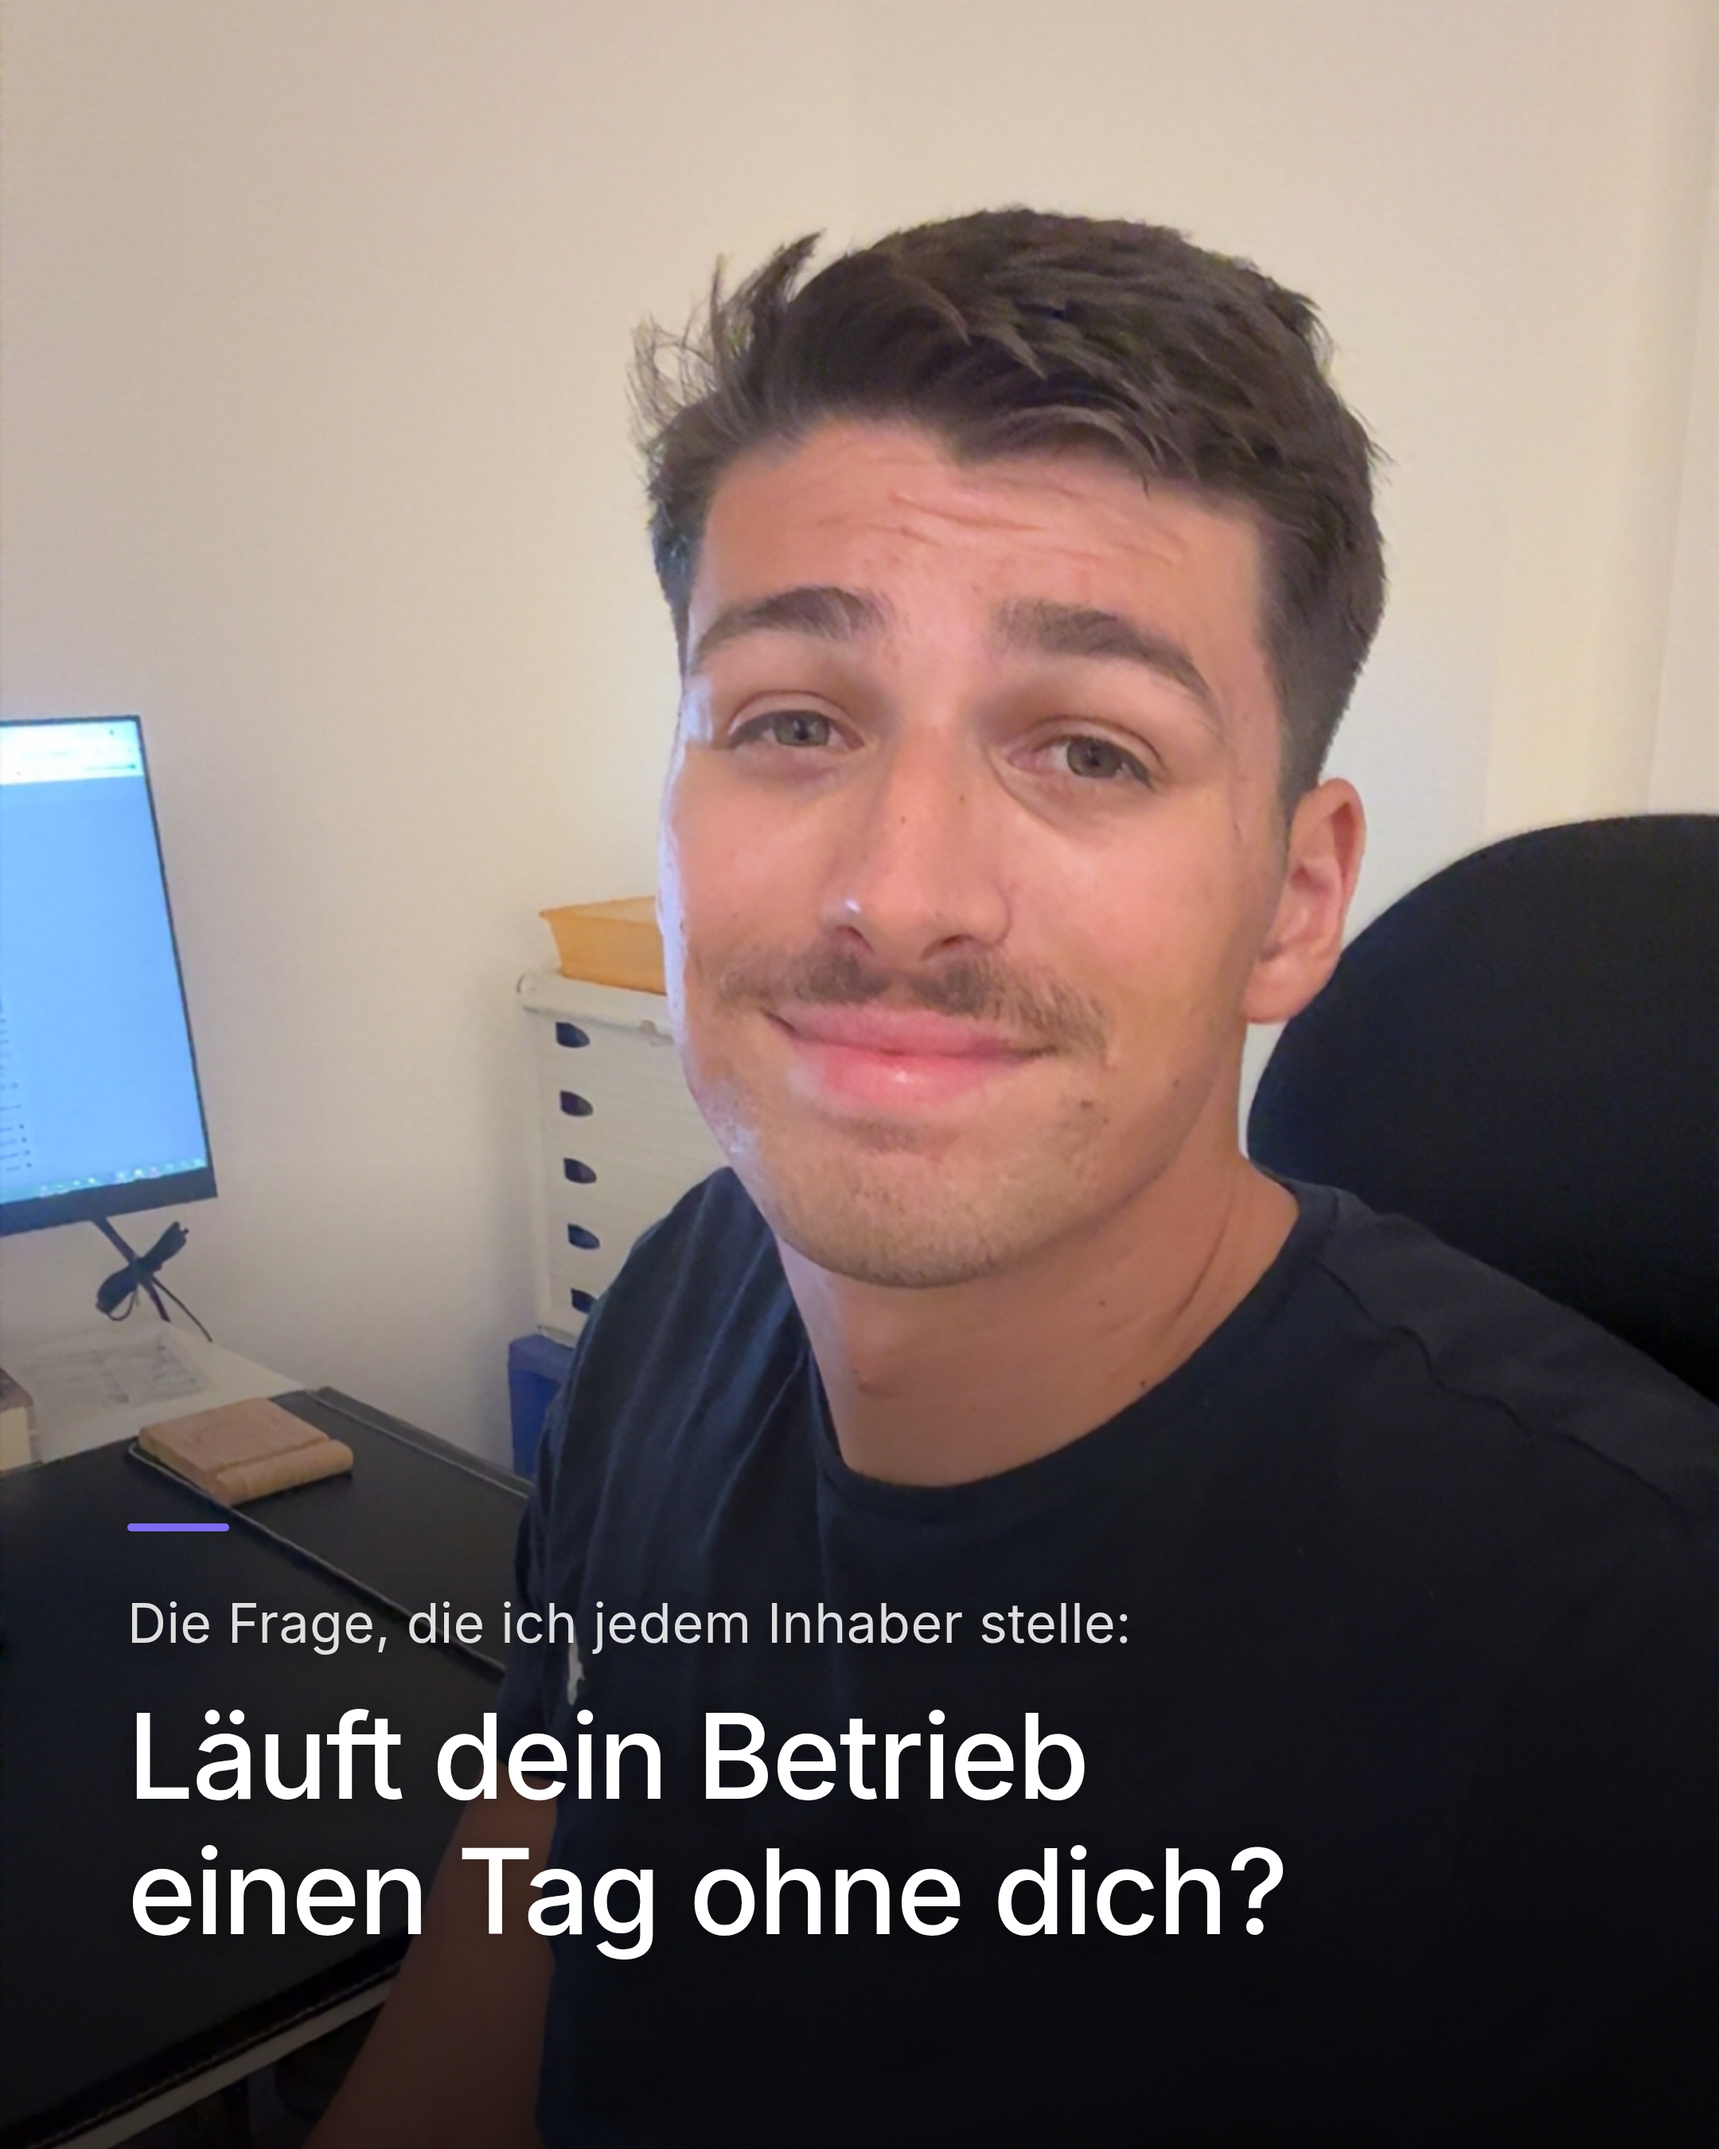
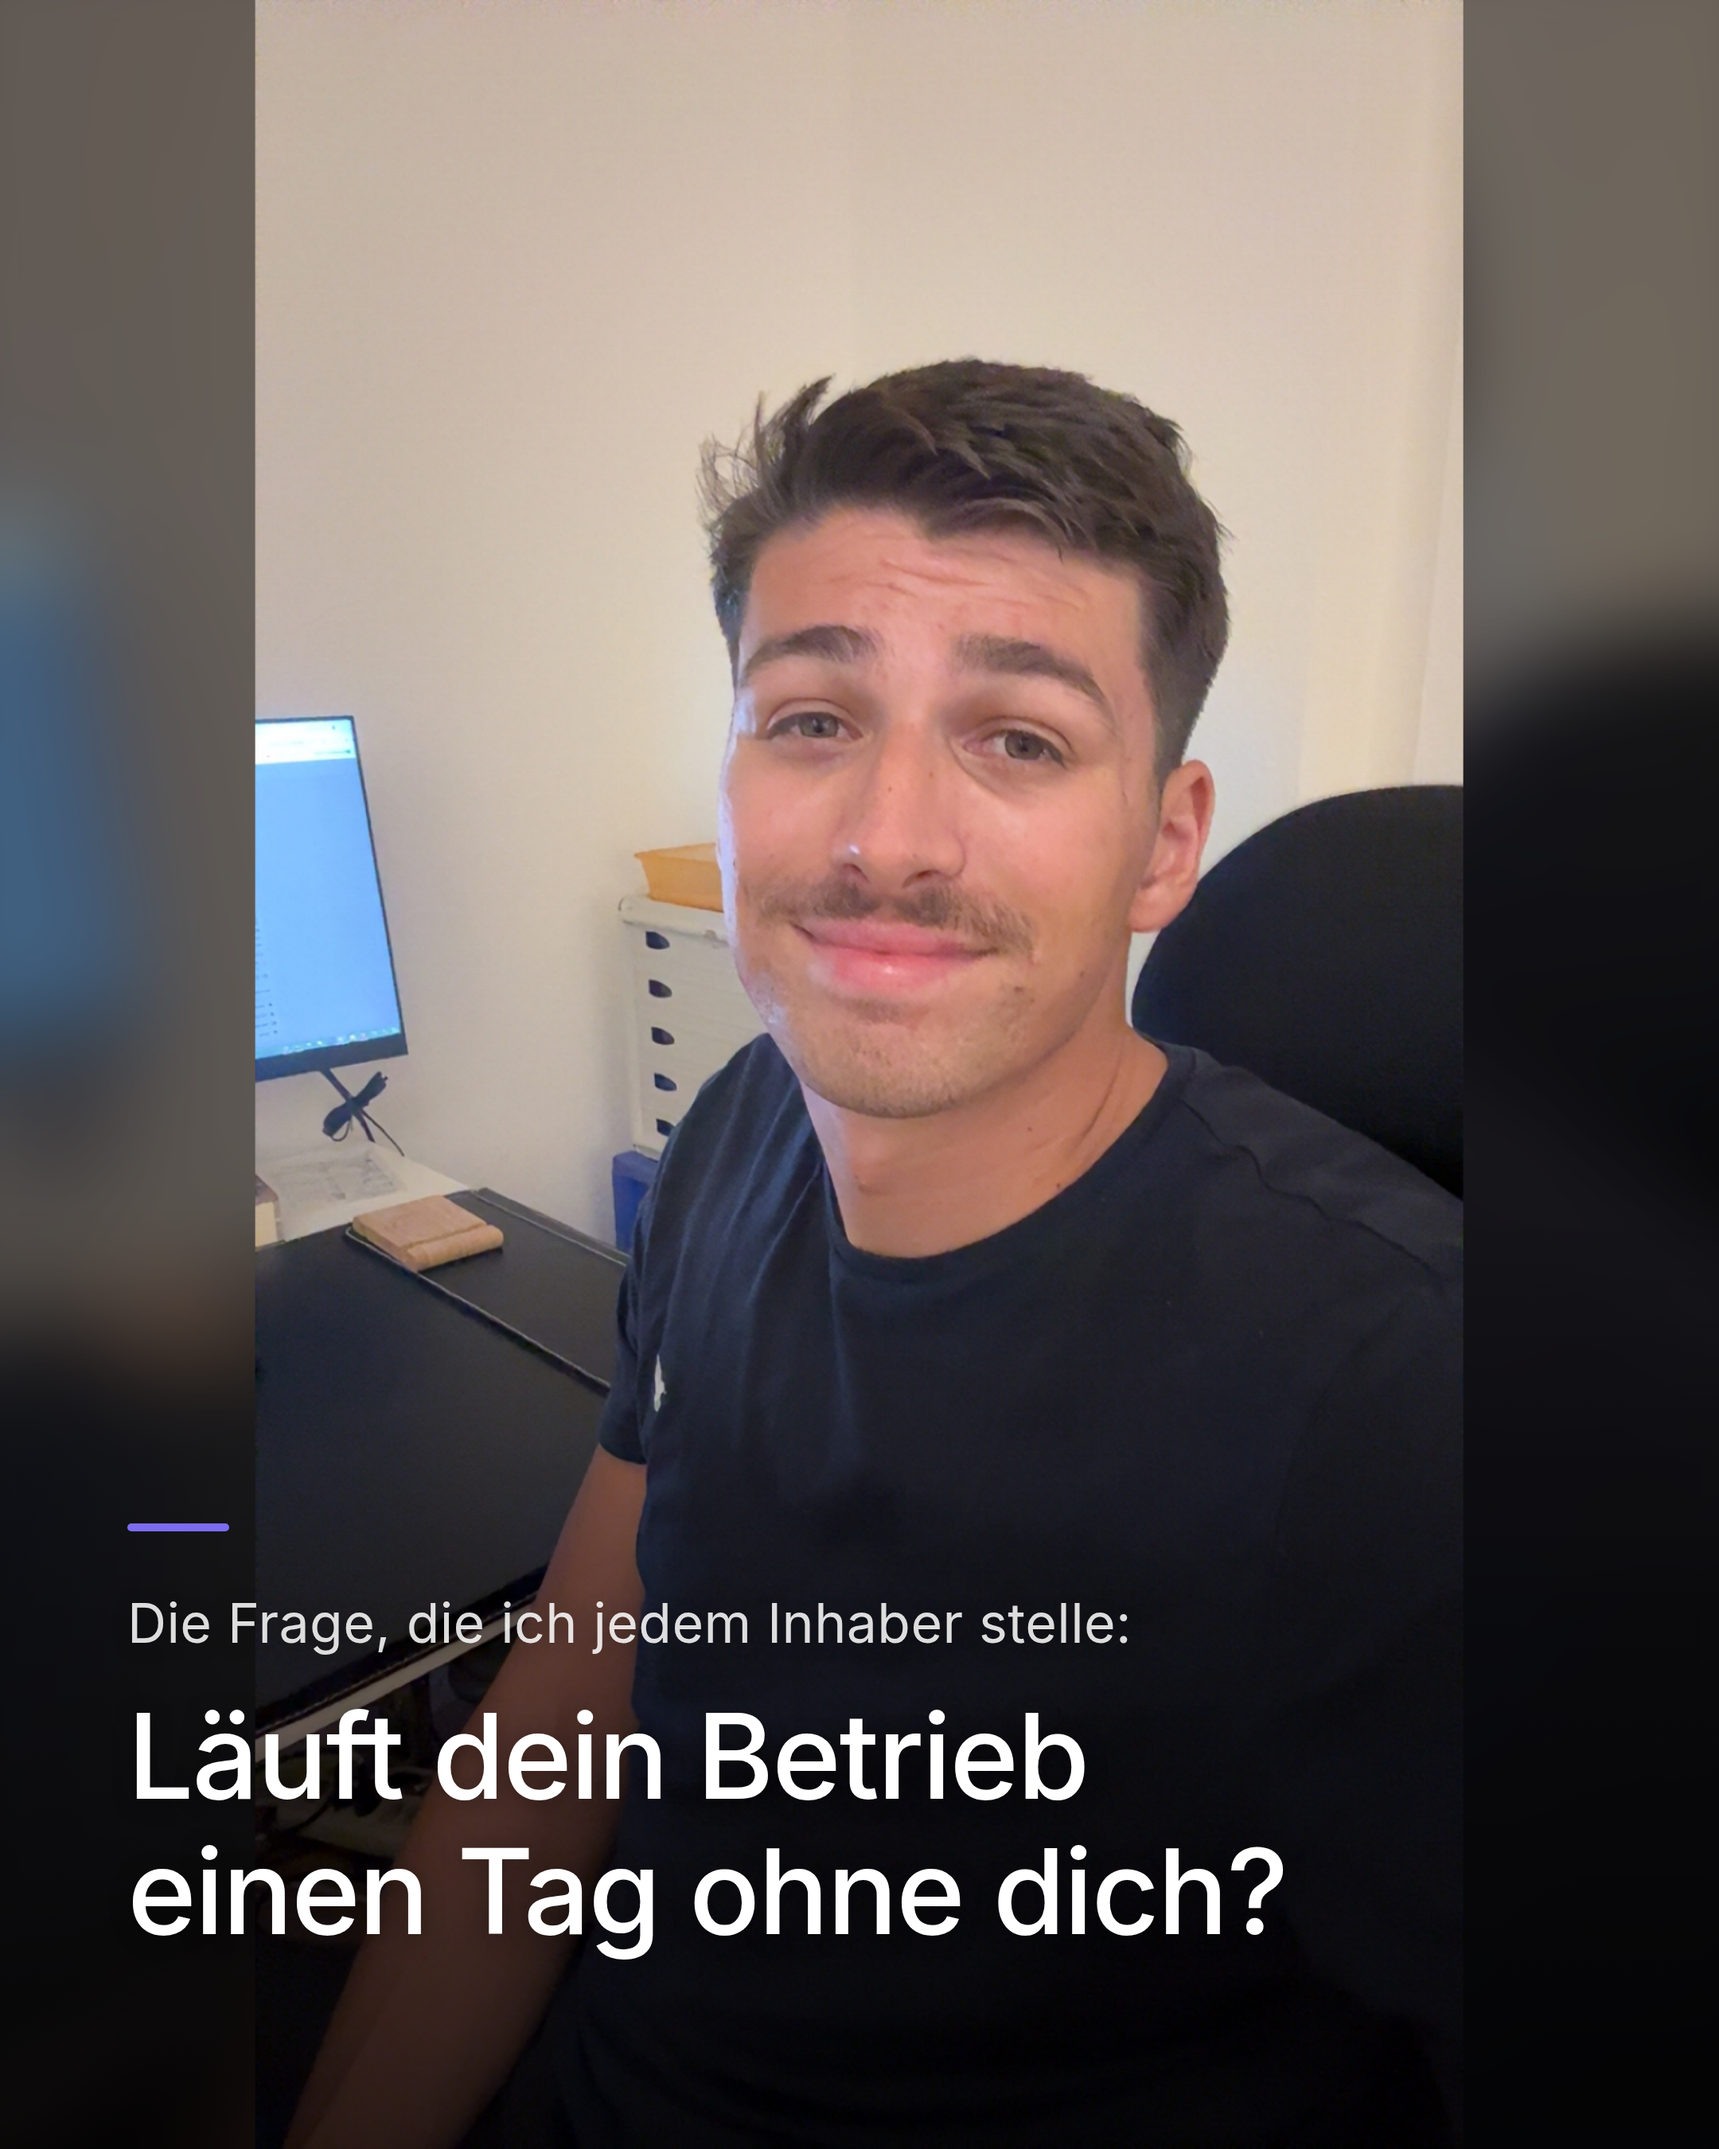
Serienbild weiter rausgezoomt: ganzes Foto, unscharfer Rand
Claude-Session: https://claude.ai/code/session_011uqJThEvfyZaZ27wjBcmdt

diff --git a/fotos/foto-frage.html b/fotos/foto-frage.html
@@ -4,8 +4,9 @@
 @font-face{font-family:'Inter';font-weight:500;src:url(inter-3.ttf) format('truetype');}
 *{margin:0;padding:0;box-sizing:border-box;}
 .s{width:1080px;height:1350px;position:relative;overflow:hidden;background:#111;font-family:'Inter',Helvetica,Arial,sans-serif;}
-.s img{position:absolute;left:0;top:0;width:1080px;height:1920px;object-fit:cover;transform:translateY(-190px);}
-.shade{position:absolute;left:0;right:0;bottom:0;height:46%;
+.bg{position:absolute;left:-60px;top:-60px;right:-60px;bottom:-60px;background:url(foto.jpg) center/cover;filter:blur(30px) brightness(.5);}
+.ph{position:absolute;top:0;left:50%;height:1350px;width:auto;transform:translateX(-50%);}
+.shade{position:absolute;left:0;right:0;bottom:0;height:44%;
  background:linear-gradient(180deg,rgba(0,0,0,0) 0%,rgba(0,0,0,.42) 45%,rgba(0,0,0,.72) 100%);}
 .bar{position:absolute;left:80px;bottom:388px;width:64px;height:5px;background:#7B6CF0;border-radius:8px;}
 .q{position:absolute;left:80px;right:80px;bottom:120px;color:#fff;font-weight:500;
@@ -13,7 +14,8 @@
 .q span{display:block;font-weight:400;font-size:34px;letter-spacing:.2px;opacity:.86;margin-bottom:22px;}
 </style></head><body>
 <div class="s">
-  <img src="foto.jpg">
+  <div class="bg"></div>
+  <img class="ph" src="foto.jpg">
   <div class="shade"></div>
   <div class="bar"></div>
   <div class="q"><span>Die Frage, die ich jedem Inhaber stelle:</span>Läuft dein Betrieb<br>einen Tag ohne dich?</div>
